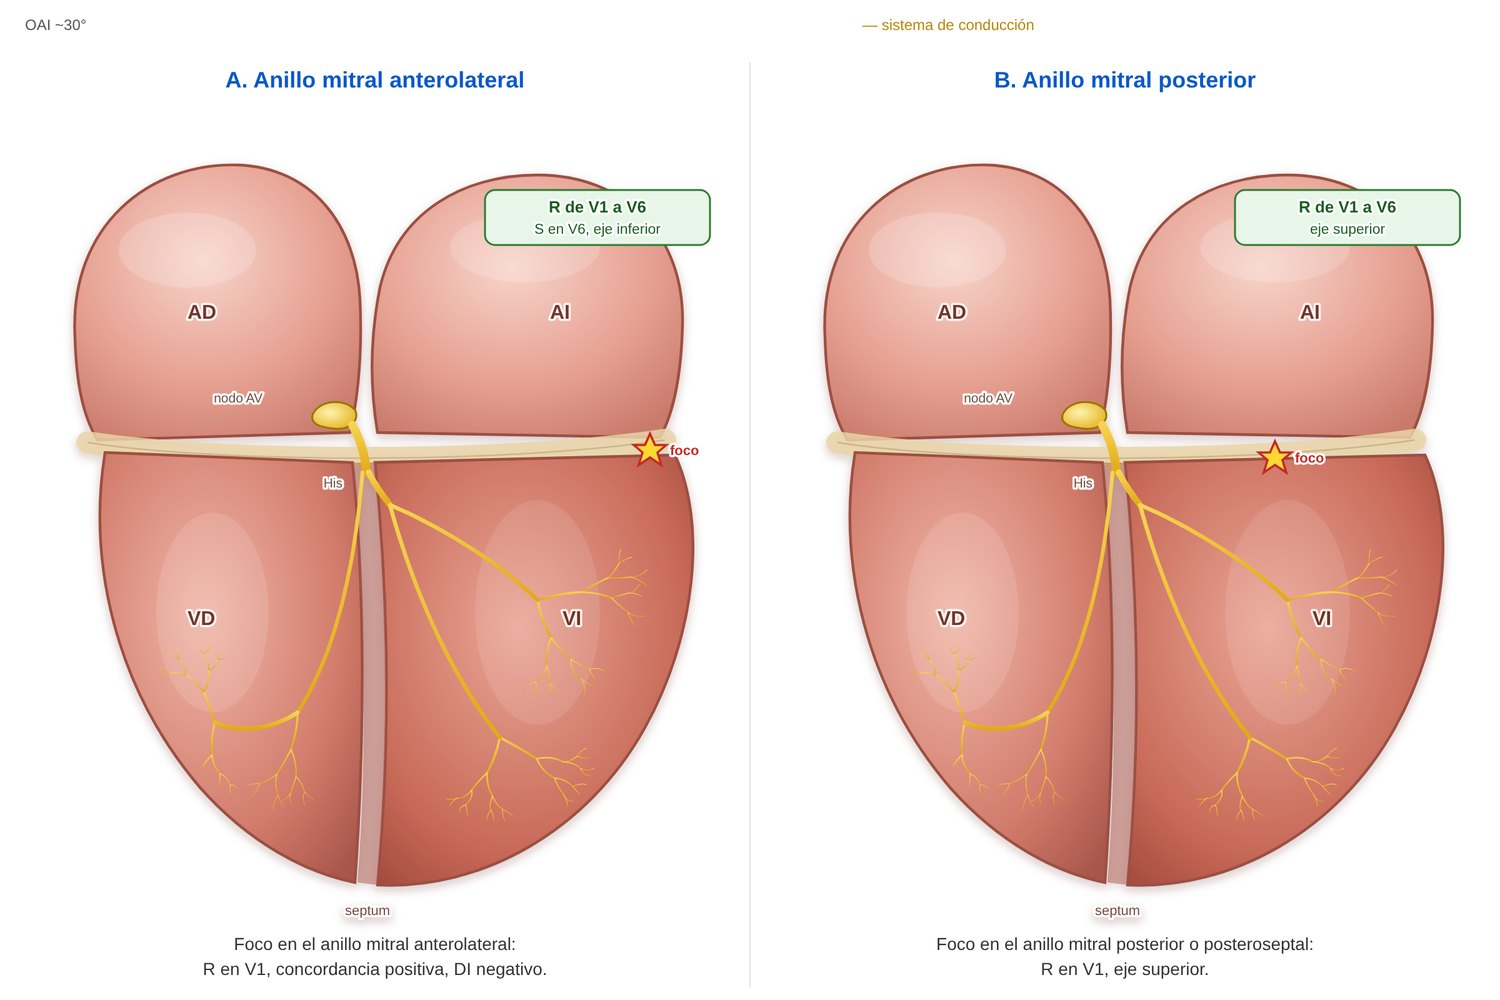
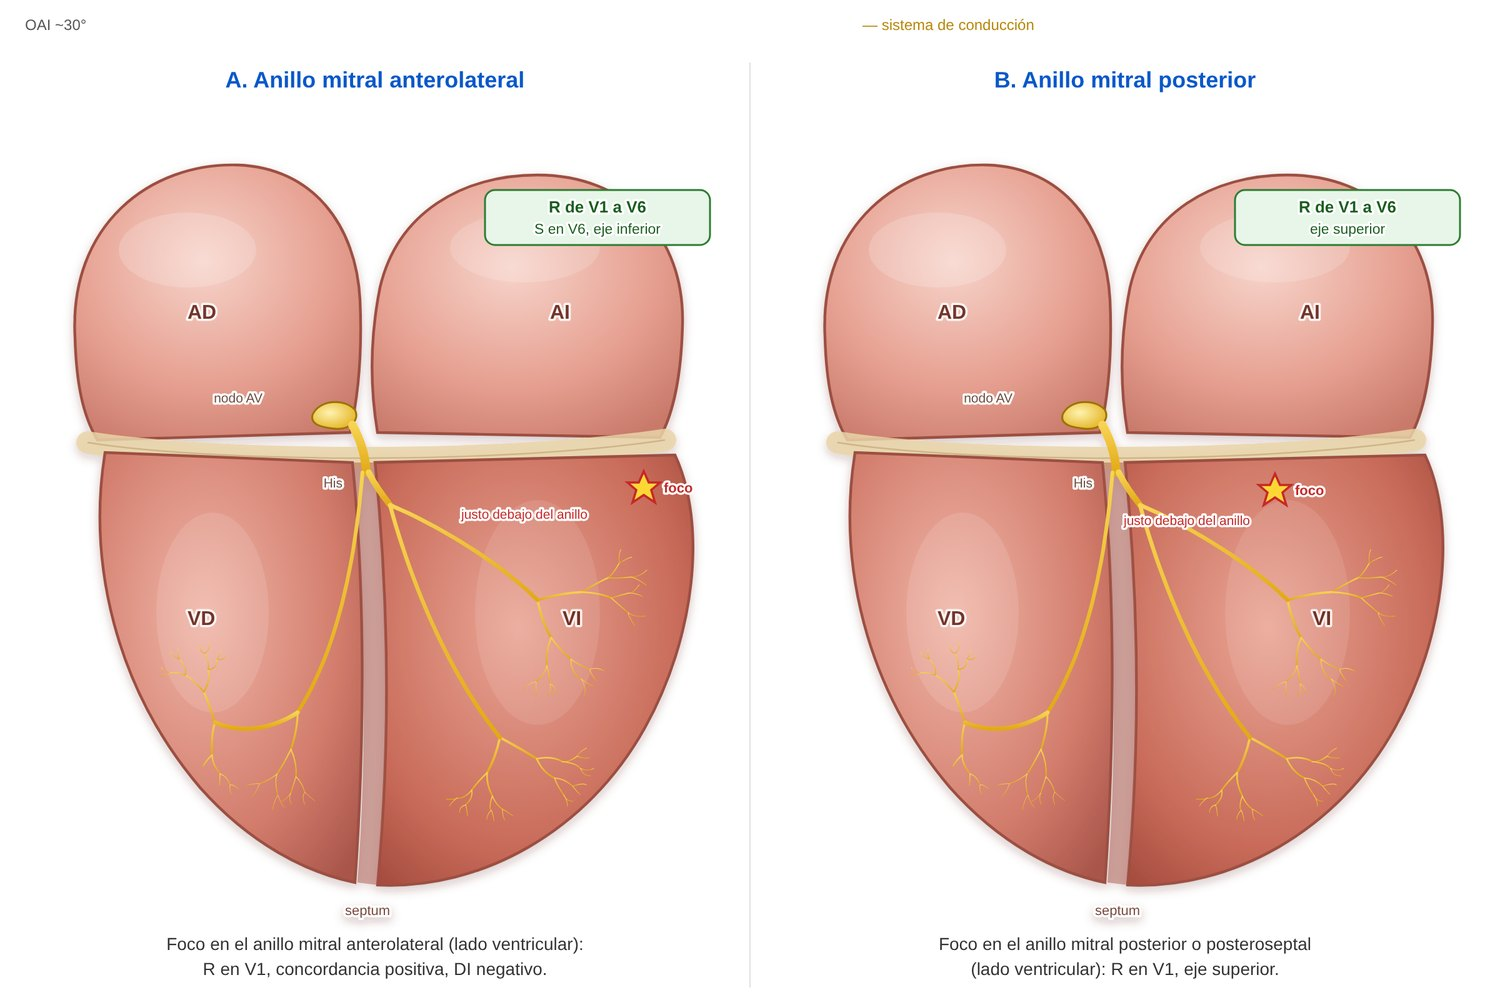
Esquemas músculo papilar (dibujo del papilar con cuerdas y valva mitral) y anillo mitral (foco por debajo del anillo)
Claude-Session: https://claude.ai/code/session_01Pw5rjt62KK5LeJZoEyFiaM

diff --git a/sw.js b/sw.js
@@ -1,6 +1,6 @@
 // Permite instalar la app y abrirla sin conexión. Primero la red (siempre lo último publicado); si no hay, la copia.
 // Si cambiás un archivo, subí CACHE_VERSION.
-const CACHE_VERSION = 'mef-v127';
+const CACHE_VERSION = 'mef-v128';
 const ARCHIVOS = ['./', './index.html', './manifest.json', './iconos/icon-192.png', './iconos/icon-512.png'];
 self.addEventListener('install', e => e.waitUntil(caches.open(CACHE_VERSION).then(c => c.addAll(ARCHIVOS)).then(() => self.skipWaiting())));
 self.addEventListener('activate', e => e.waitUntil(caches.keys().then(ks => Promise.all(ks.filter(k => k !== CACHE_VERSION).map(k => caches.delete(k)))).then(() => self.clients.claim())));

diff --git a/herramientas/esquemas/esquemas.py b/herramientas/esquemas/esquemas.py
@@ -826,17 +826,49 @@ F['tvfabl'] = (
      + note(300, 525, 'línea perpendicular al|fascículo posterior', RED) + box('TV no inducible', 'línea de 1–2 cm'),
      'Si no se induce: línea perpendicular al fascículo|posterior en el septum medio-inferior.', ('nodo', 'his', 'fp')), [L_TSV, L_CS])
 
+def papilar(base, tip, w, leaflet):
+    """Músculo papilar: masa cónica redondeada que nace de la pared del VI, con cuerdas tendinosas a la valva mitral."""
+    (bx, by), (tx, ty) = base, tip
+    dx, dy = tx - bx, ty - by
+    n = (dx * dx + dy * dy) ** .5
+    ux, uy = dx / n, dy / n          # eje base → punta
+    px, py = -uy, ux                 # perpendicular
+    def pt(a, b):                    # a: a lo largo del eje (0 base, 1 punta); b: lateral en múltiplos de w
+        return (bx + dx * a + px * w * b, by + dy * a + py * w * b)
+    P = [pt(-.05, 1.25), pt(.35, 1.05), pt(.8, .55), pt(1.0, .22), pt(1.04, 0), pt(1.0, -.22), pt(.8, -.55), pt(.35, -1.05), pt(-.05, -1.25)]
+    f = lambda q: f'{q[0]:.0f},{q[1]:.0f}'
+    d = (f'M{f(P[0])} C{f(P[1])} {f(P[2])} {f(P[3])} Q{f(P[4])} {f(P[5])} C{f(P[6])} {f(P[7])} {f(P[8])} '
+         f'Q{f(pt(-.22, 0))} {f(P[0])} Z')
+    s = (f'<defs><linearGradient id="gpm{bx}" x1="0" x2="1"><stop offset="0" stop-color="#8e3b2f"/><stop offset=".45" stop-color="#c06a58"/>'
+         f'<stop offset="1" stop-color="#7d3127"/></linearGradient></defs>'
+         f'<path d="{d}" fill="url(#gpm{bx})" stroke="#5d221a" stroke-width="1.4"/>')
+    for k in (-.45, 0, .45):        # estrías musculares
+        a0, a1 = pt(.1, k * 1.6), pt(.85, k * .6)
+        s += f'<path d="M{f(a0)} L{f(a1)}" stroke="#d98f7c" stroke-width="1.2" opacity=".5"/>'
+    lx0, lx1, ly = leaflet
+    s += f'<path d="M{lx0},{ly} Q{(lx0 + lx1) / 2},{ly + 16} {lx1},{ly}" stroke="#e8c9a8" stroke-width="5" fill="none" stroke-linecap="round"/>'
+    for i in range(6):
+        cx = lx0 + (lx1 - lx0) * (i + .5) / 6
+        cy = ly + 6 + 4 * (1 - abs(i - 2.5) / 2.5)
+        s += f'<line x1="{tx:.0f}" y1="{ty:.0f}" x2="{cx:.0f}" y2="{cy:.0f}" stroke="#f3e5d0" stroke-width="1.1"/>'
+    return s
+
+
 F['pm'] = (
-    ('A. Músculo papilar posteromedial', '<ellipse cx="400" cy="540" rx="20" ry="34" fill="#b85a4b" stroke="#7b2f24"/>' + focus((400, 540), 'foco')
+    ('A. Músculo papilar posteromedial', papilar((392, 590), (408, 472), 20, (380, 470, 318)) + focus((406, 492), 'foco')
+     + note(478, 336, 'valva mitral|y cuerdas', '#6d4c41')
      + box('BRD + eje superior', 'QRS ancho, focal'), 'Foco en el músculo papilar posteromedial:|BRD con eje superior, no reentrante.'),
-    ('B. Músculo papilar anterolateral', '<ellipse cx="470" cy="430" rx="18" ry="32" fill="#b85a4b" stroke="#7b2f24"/>' + focus((470, 430), 'foco')
+    ('B. Músculo papilar anterolateral', papilar((500, 505), (468, 412), 18, (440, 530, 316)) + focus((474, 432), 'foco')
+     + note(432, 336, 'valva mitral|y cuerdas', '#6d4c41', 'end')
      + box('BRD + eje inferior', 'QRS ancho, focal'), 'Foco en el músculo papilar anterolateral:|BRD con eje inferior.'), [L_CS])
 
 F['ma'] = (
-    ('A. Anillo mitral anterolateral', focus((520, 290), 'foco') + box('R de V1 a V6', 'S en V6, eje inferior'),
-     'Foco en el anillo mitral anterolateral:|R en V1, concordancia positiva, DI negativo.'),
-    ('B. Anillo mitral posterior', focus((420, 296), 'foco') + box('R de V1 a V6', 'eje superior'),
-     'Foco en el anillo mitral posterior o posteroseptal:|R en V1, eje superior.'), [L_CS])
+    ('A. Anillo mitral anterolateral', focus((515, 320), 'foco') + note(470, 345, 'justo debajo del anillo', RED, 'end')
+     + box('R de V1 a V6', 'S en V6, eje inferior'),
+     'Foco en el anillo mitral anterolateral (lado ventricular):|R en V1, concordancia positiva, DI negativo.'),
+    ('B. Anillo mitral posterior', focus((420, 322), 'foco') + note(400, 350, 'justo debajo del anillo', RED, 'end')
+     + box('R de V1 a V6', 'eje superior'),
+     'Foco en el anillo mitral posterior o posteroseptal|(lado ventricular): R en V1, eje superior.'), [L_CS])
 
 OBL = '<path d="M520,262 C510,280 495,296 478,310" stroke="#7e57c2" stroke-width="7" fill="none" stroke-linecap="round"/>'
 F['obl'] = (
